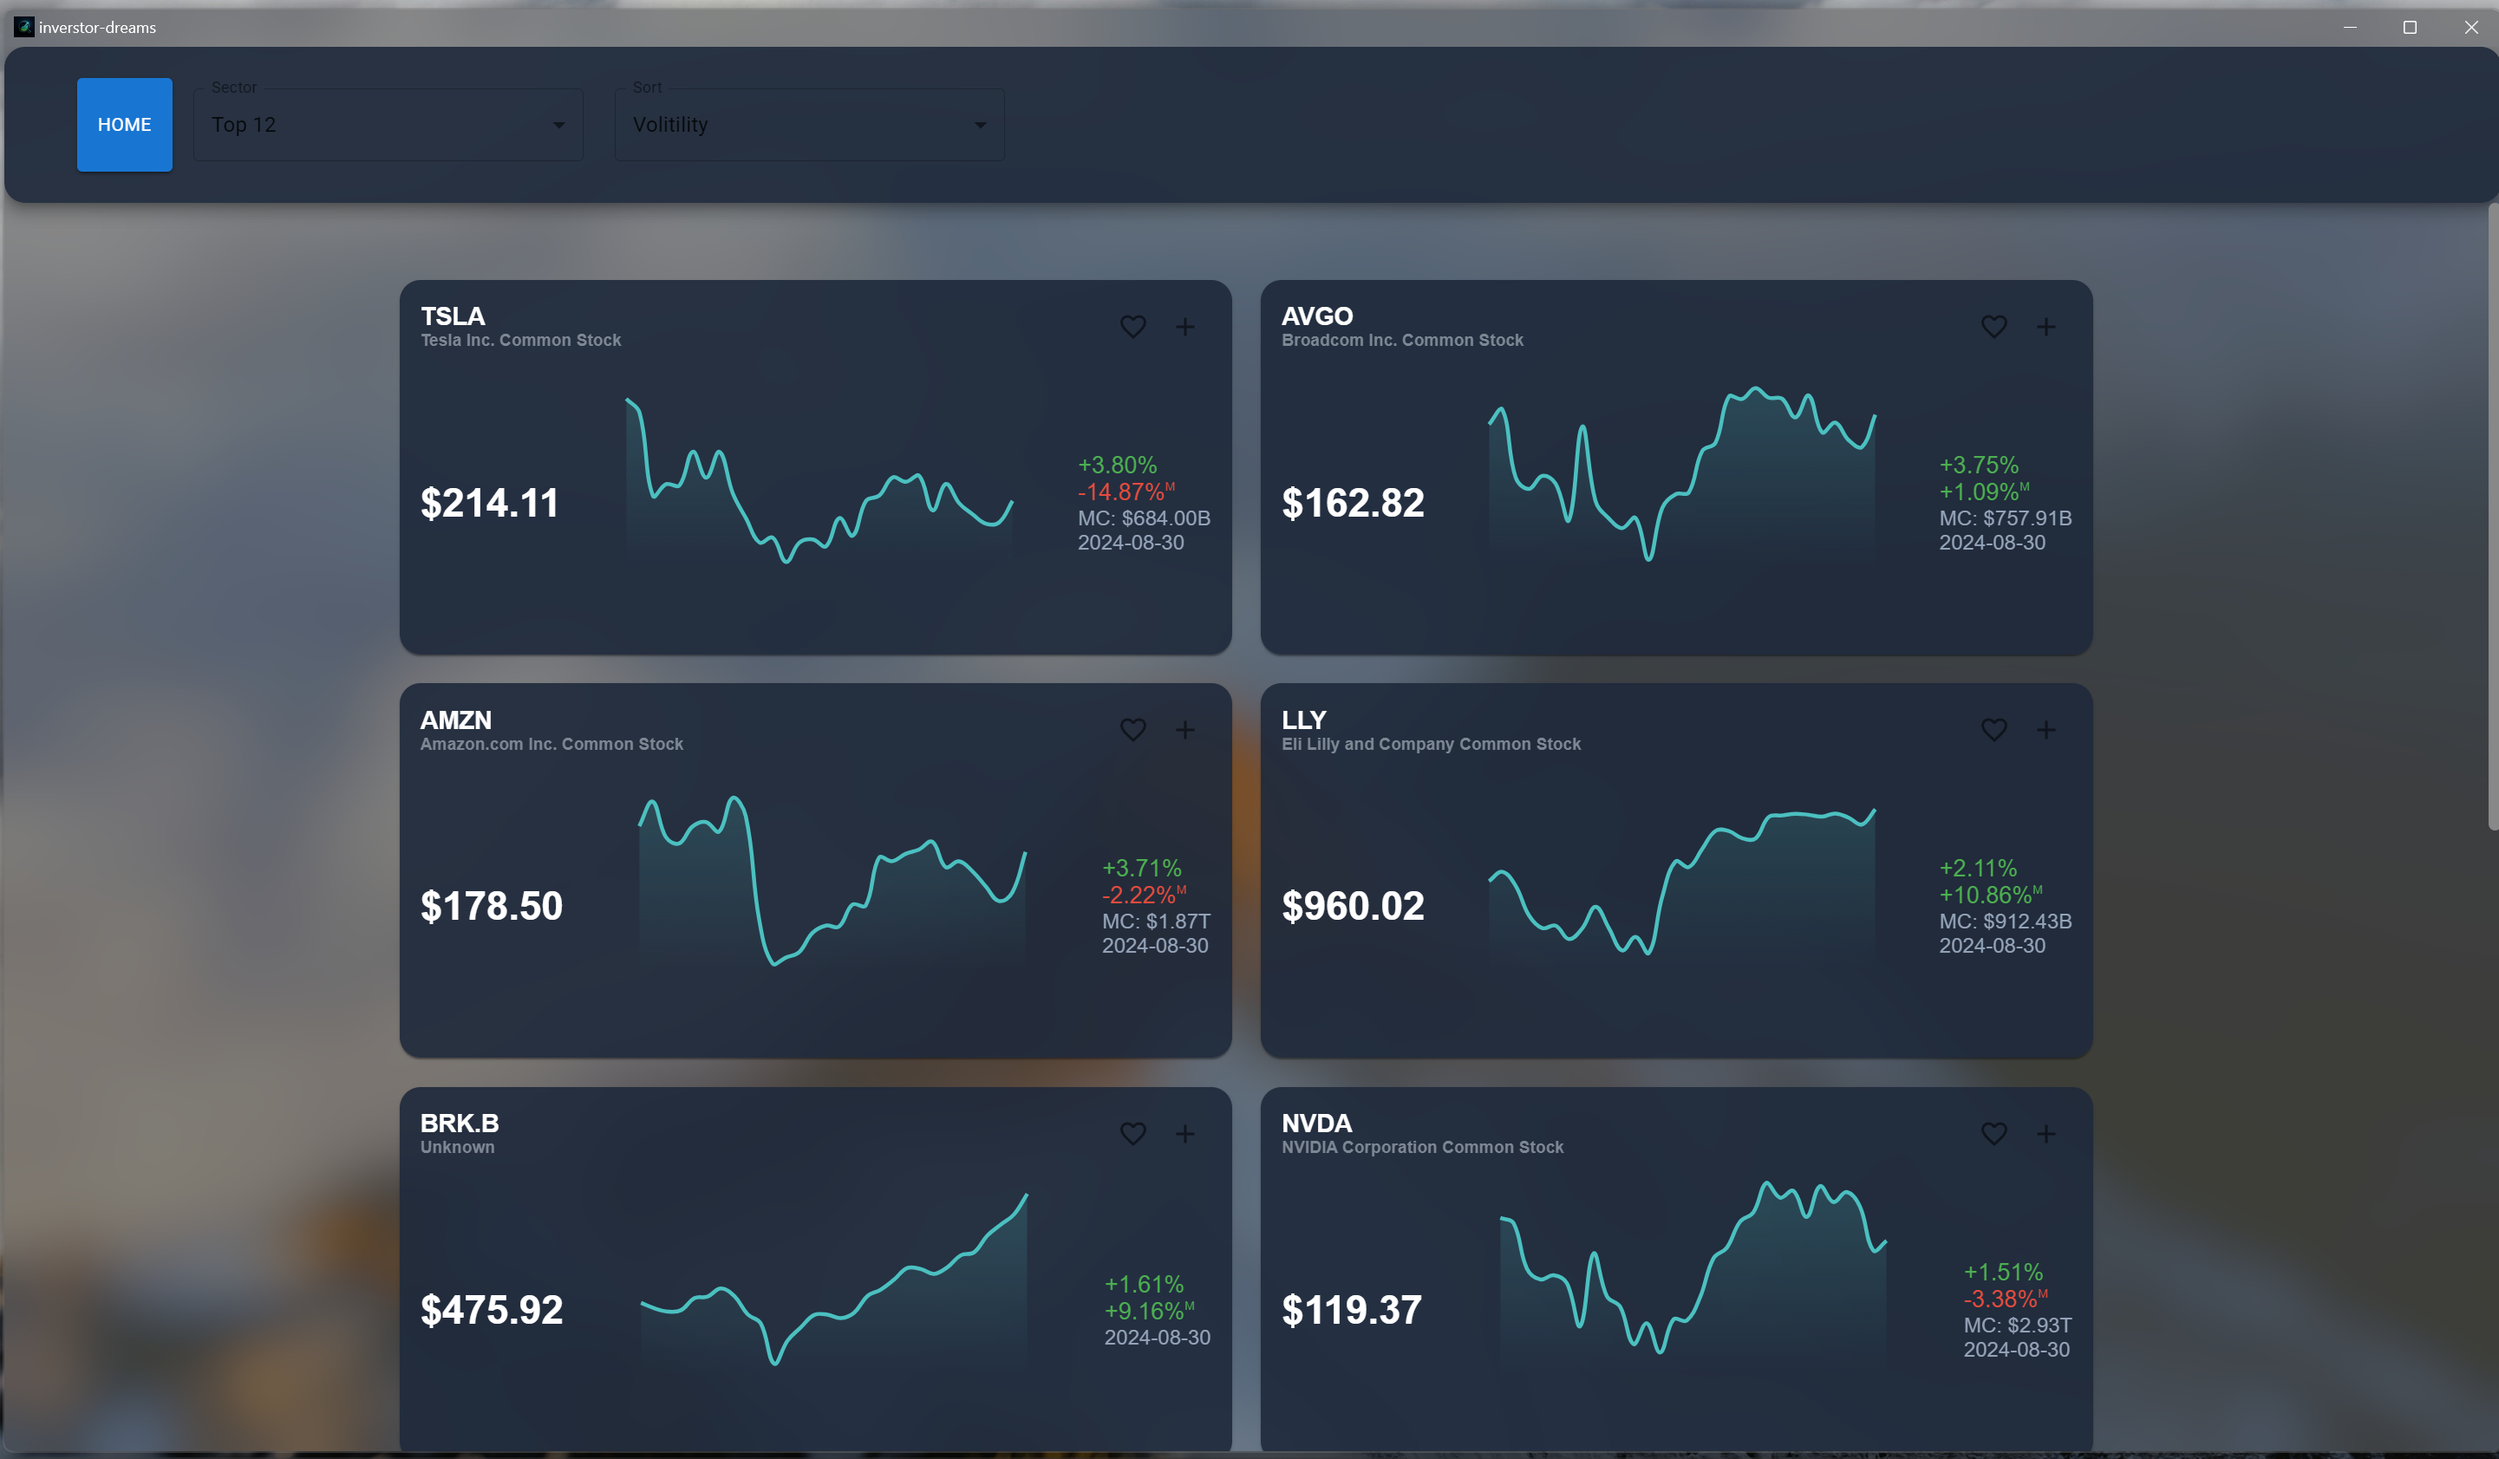
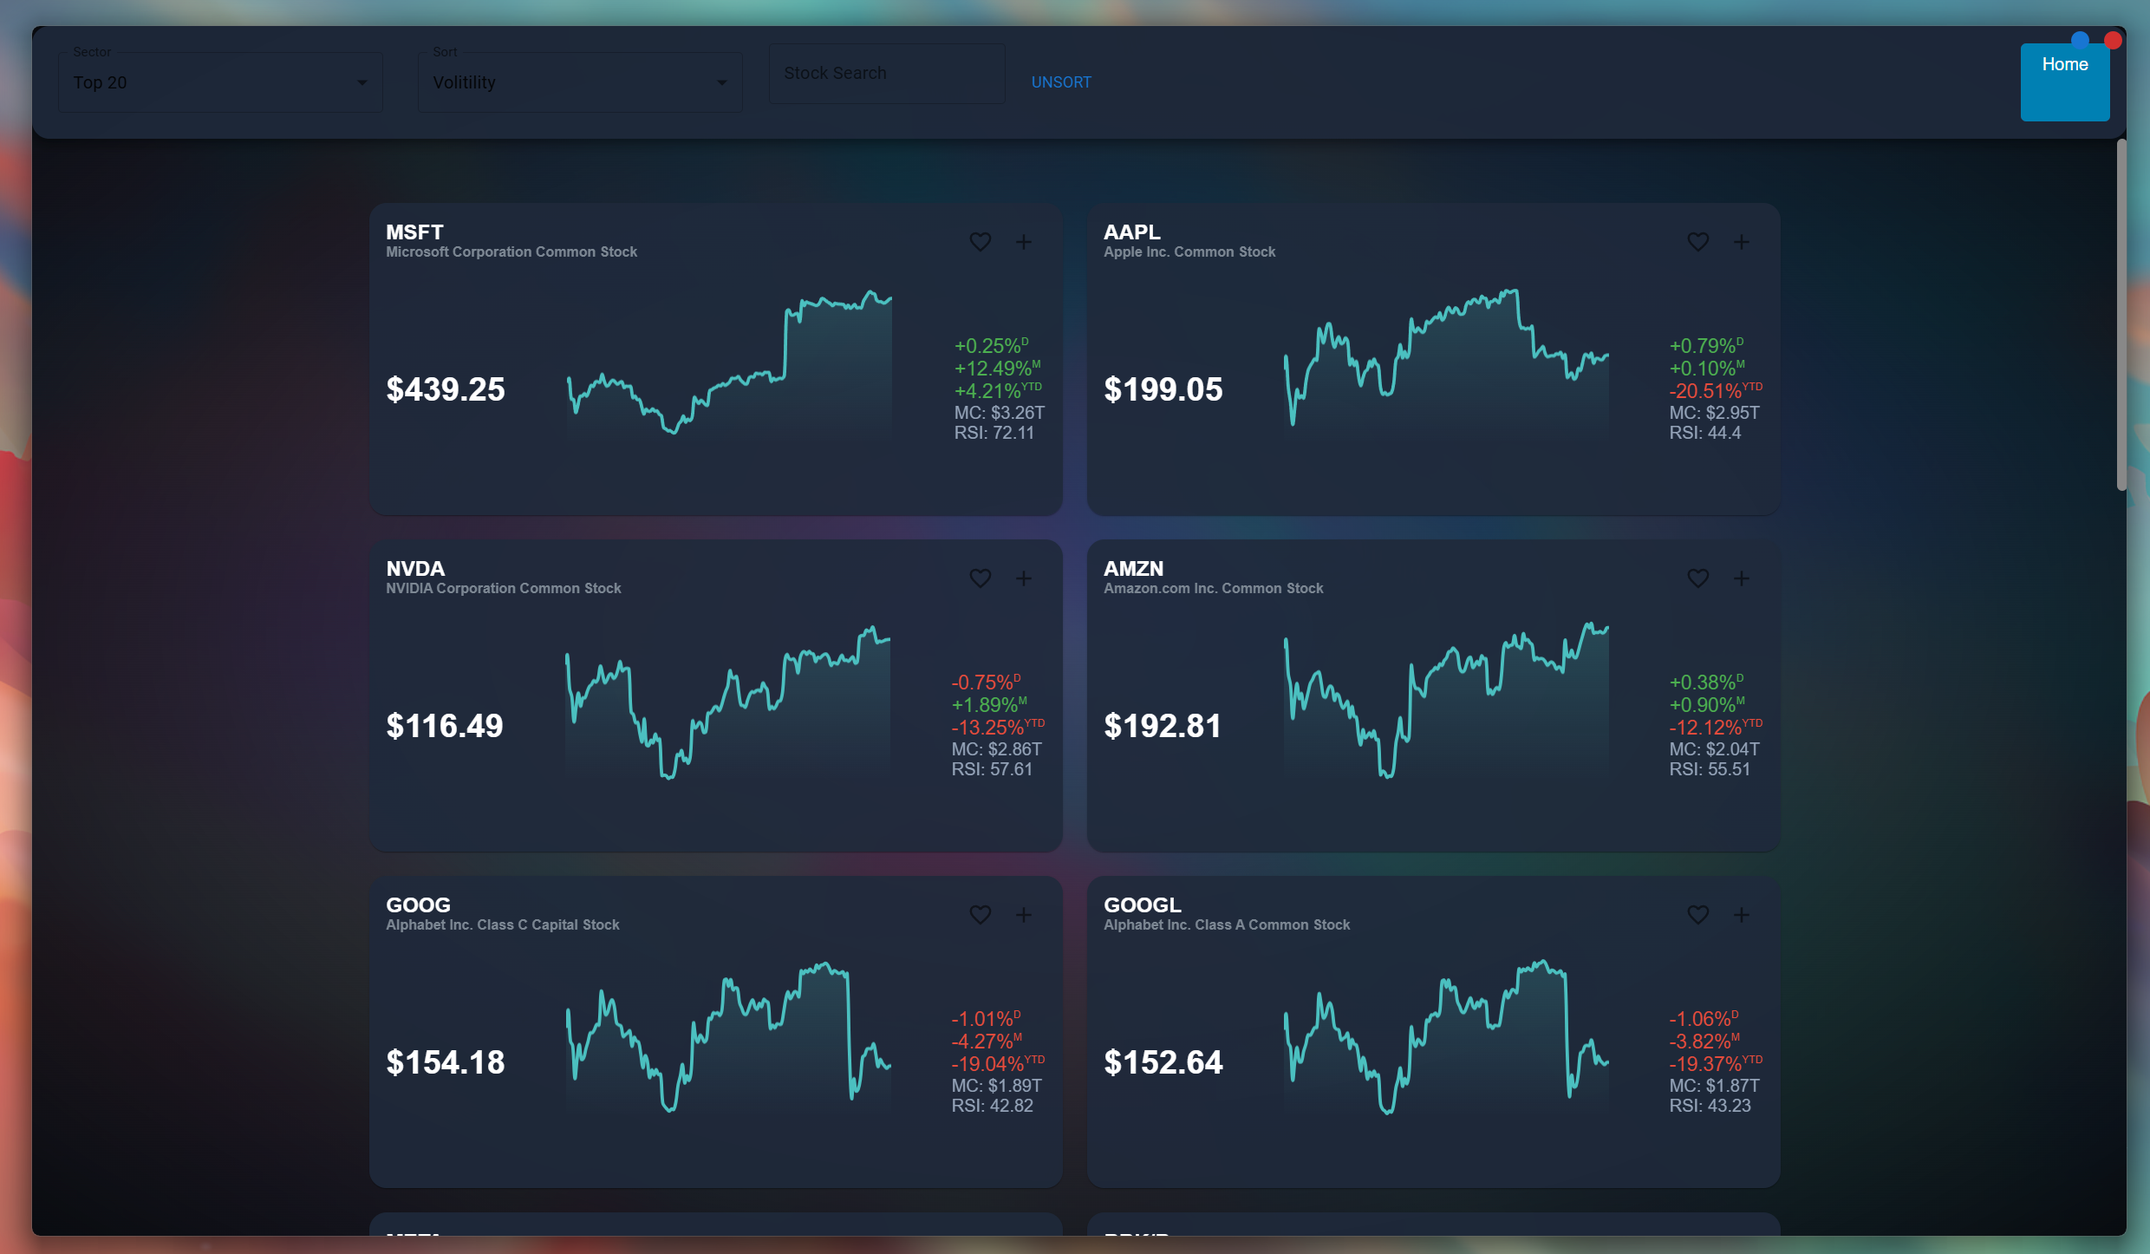
Newer readme pics

diff --git a/README.md b/README.md
@@ -33,8 +33,25 @@ git update-index --assume-unchanged src-tauri/src/sensitive_constants.rs
 ## Homepage:
 ![Homepage](static/homepage.png)
 
+## Heatmap:
+![Heatmap](static/heatmap.png)
+
 ## Playground:
 ![Playground](static/playground.png)
 
-## Analysis:
+## Sectors:
+![Sectors](static/sectors.png)
+
+## Searching:
+![Search](static/search.png)
+
+## Big Widget:
+![Big Widget](static/big-widget.png)
+## Summary:
+![Summary](static/summary.png)
+
+## Tradingview Chart Integration:
+![Tradingview Chart Integration](static/tradingview-chart.png)
+
+## Analysis (old pic):
 ![Analysis](static/analysis.png)
